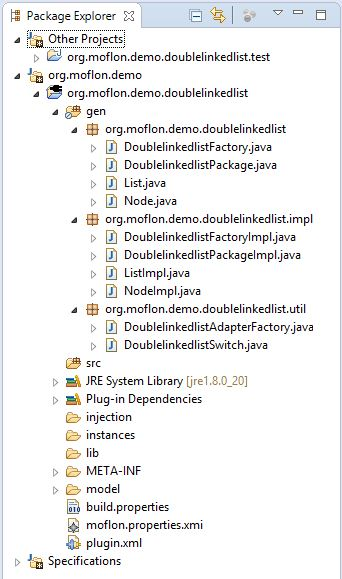
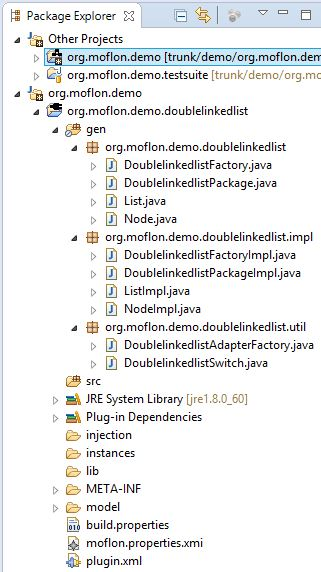
Adjustments to the new Moflon Eclipse plug-in.

Changed region(s): [[0.0312, 0.0, 1.0, 1.0], [0.5919, 0.9213, 0.6231, 0.9808], [0.81, 0.0, 0.8411, 0.0297]]

diff --git a/Handbook/org.moflon.doc.handbook.01_installation/2_simpleDemo/simpleDemoSrc.tex b/Handbook/org.moflon.doc.handbook.01_installation/2_simpleDemo/simpleDemoSrc.tex
@@ -17,37 +17,20 @@ open, or select will be given as \texttt{command}.} and choose \texttt{eMoflon} 
 	\label{eclipse:openPerspective}
 \end{figure} 
 
-\item[$\blacktriangleright$] At either the far right or centre of the toolbar, a new action set should have appeared. Navigate to ``New Metamodel''
+\item[$\blacktriangleright$] At either the far right or centre of the toolbar, a new action set should have appeared. Navigate to ``Install, configure and deploy Moflon'' and click on it. Open the  ``Install Workspace'' menu bar
 (Fig.~\ref{eclipse:newMetamodel}).
 
 \vspace{0.5cm}
 \begin{figure}[htbp]
 	\centering
-  \includegraphics[width= 0.5\textwidth]{eclipse_newMetamodelButton}
-	\caption{Invoke the ``New Metamodel'' wizard}
+  \includegraphics[width= 0.7\textwidth]{eclipse_MoflonButton}
+	\caption{Invoke the ``Install, configure and deploy Moflon'' button and the ``Install Workspace'' menu bar}
 	\label{eclipse:newMetamodel}
 \end{figure}
 
 \newpage
 
-\item[$\blacktriangleright$] A new dialogue should appear. This is the place where you officially decide which eMoflon syntax you'd like to use
-(Fig.~\ref{eclipse:chooseSyntax}).
-
-With the visual syntax, you'll be using Eclipse along with a UML tool, Enterprise Architect (EA). You'll use EA to specify
-several types of diagrams, then export and refresh your workspace in Eclipse to generate the corresponding Java code.
-
-With the textual syntax (MOSL),\footnote{Moflon Specification Language} you'll be working entirely within the Eclipse IDE.
-
-No matter which syntax you choose however, give your project
-a name and make sure the \texttt{Add Demo Specification} button is selected. This will create all the files and tests required to ensure you've set up eMoflon
-correctly.
-
-\begin{figure}[htbp]
-	\centering
-  \includegraphics[width=0.8\textwidth]{eclipse_newMetamodelDialog}
-	\caption{Choose your syntax}
-	\label{eclipse:chooseSyntax}
-\end{figure} 
+\item[$\blacktriangleright$] In this menu you can check out different workspaces for Eclipse. Here you can also check out worspaces for the handbook tutorials. How you can create your own projects is described in Part I. As the first tutorial select ``Demo Workspace''. 
 
 \item[$\blacktriangleright$]  Another button in the new action set is ``View and configure logging'' represented by an \texttt{L} (Fig.~\ref{eclipse:logger}).
 Clicking this icon will open a \texttt{log4jConfig.properties} file where you can silence certain loggers, set the level of loggers, or configure other

diff --git a/Handbook/org.moflon.doc.handbook.01_installation/3_validate/validateJUnitSrc.tex b/Handbook/org.moflon.doc.handbook.01_installation/3_validate/validateJUnitSrc.tex
@@ -15,7 +15,7 @@ them to structure the workspace.
 	\label{eclipse:topLevel}
 \end{figure}
 
-\item[$\blacktriangleright$] Locate ``Other Projects/orgmoflon.demo.doublelinkedlist.test.'' This is the testsuite imported with the demo files to make sure everything has been installed and
+\item[$\blacktriangleright$] Locate ``Other Projects/orgmoflon.demo.testsuite.'' This is the testsuite imported with the demo files to make sure everything has been installed and
 set up correctly. Right click on the project to bring up the context menu and go to ``Run As/JUnit Test.'' If anything goes wrong, try refreshing by choosing
 your metamodel project and pressing  \texttt{F5}, or right-clicking and selecting \texttt{Refresh}.
 
